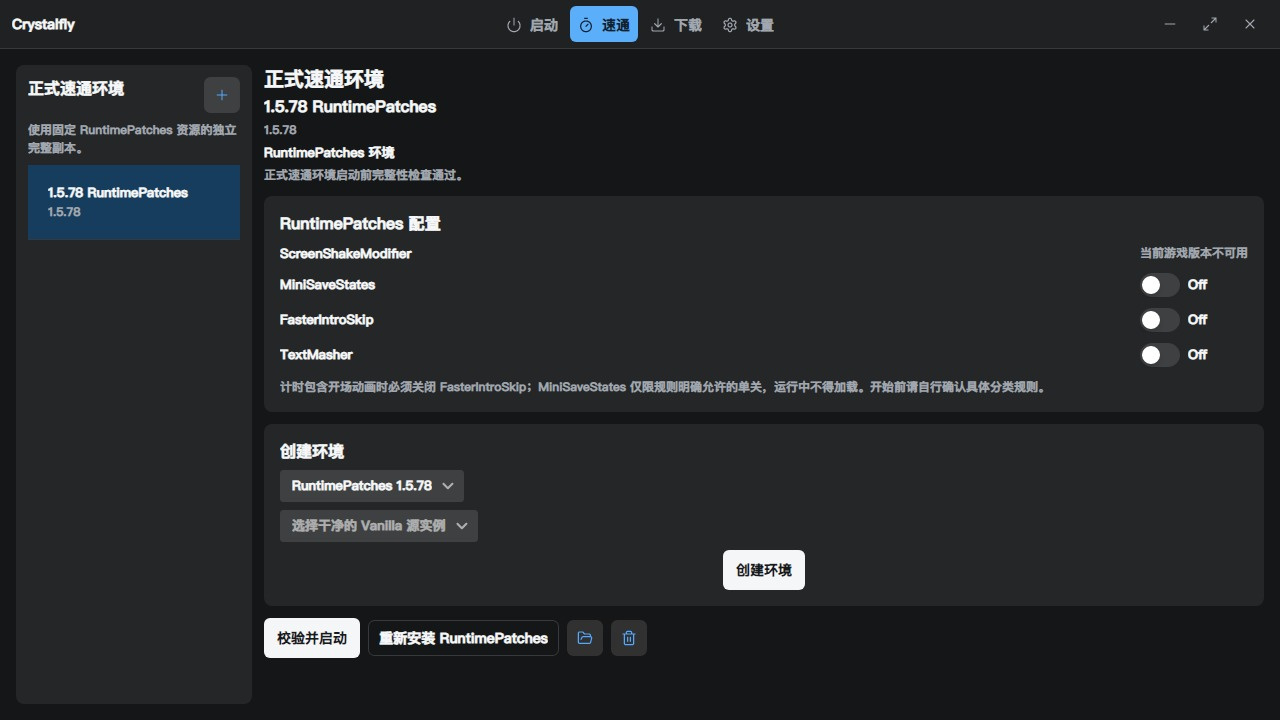
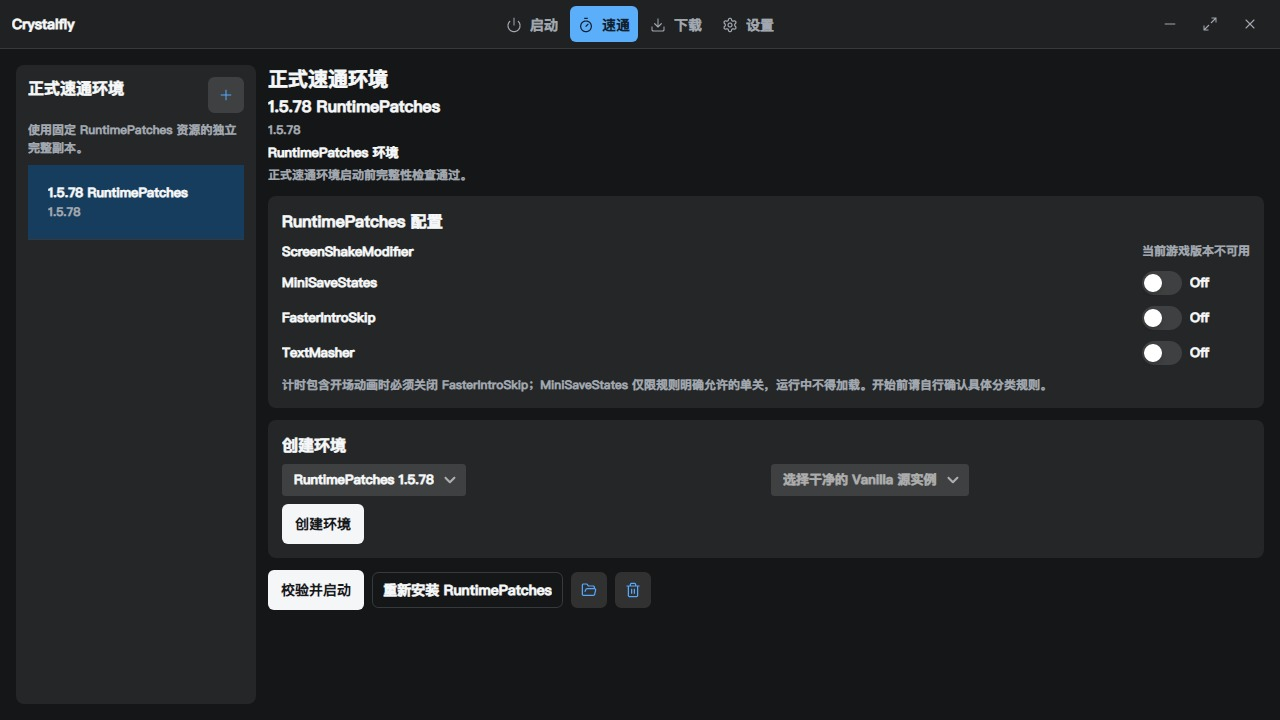
fix: tighten speedrun workspace layout

diff --git a/tests/Crystalfly.App.Tests/Ui/LayoutRenderingTests.cs b/tests/Crystalfly.App.Tests/Ui/LayoutRenderingTests.cs
@@ -282,6 +282,21 @@ public sealed class LayoutRenderingTests
             Assert.Contains(window.GetVisualDescendants().OfType<ListBox>(), list => list.IsEffectivelyVisible);
             Assert.Contains(window.GetVisualDescendants().OfType<Button>(), button =>
                 button.IsEffectivelyVisible && Equals(button.Content, viewModel.Loc["SpeedrunCreate"]));
+
+            var config = window.GetVisualDescendants()
+                .OfType<Border>()
+                .Single(border => border.Classes.Contains("cfp-speedrun-config"));
+            Assert.False(config.IsEffectivelyVisible);
+
+            var create = window.GetVisualDescendants()
+                .OfType<Border>()
+                .Single(border => border.Classes.Contains("cfp-speedrun-create"));
+            Assert.Equal(2, create.GetVisualDescendants().OfType<ComboBox>().Count(combo => combo.IsEffectivelyVisible));
+            var createButton = create.GetVisualDescendants()
+                .OfType<Button>()
+                .Single(button => button.Classes.Contains("cfp-primary")
+                    && Equals(button.Content, viewModel.Loc["SpeedrunCreate"]));
+            Assert.Equal(HorizontalAlignment.Left, createButton.HorizontalAlignment);
         }
         finally
         {
